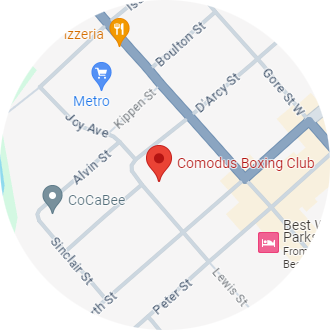
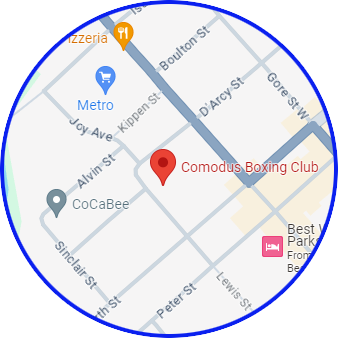
added border to footer map

diff --git a/index.html b/index.html
@@ -11,9 +11,9 @@
     <link rel="stylesheet" href="style.css">
 
     <!-- Favicon -->
-    <link rel="apple-touch-icon" sizes="180x180" href="/apple-touch-icon.png">
-    <link rel="icon" type="image/png" sizes="32x32" href="/favicon-32x32.png">
-    <link rel="icon" type="image/png" sizes="16x16" href="/favicon-16x16.png">
+    <link rel="apple-touch-icon" sizes="180x180" href="apple-touch-icon.png">
+    <link rel="icon" type="image/png" sizes="32x32" href="favicon-32x32.png">
+    <link rel="icon" type="image/png" sizes="16x16" href="favicon-16x16.png">
     <link rel="manifest" href="/site.webmanifest">
     <link rel="mask-icon" href="/safari-pinned-tab.svg" color="#5bbad5">
     <meta name="msapplication-TileColor" content="#da532c">
